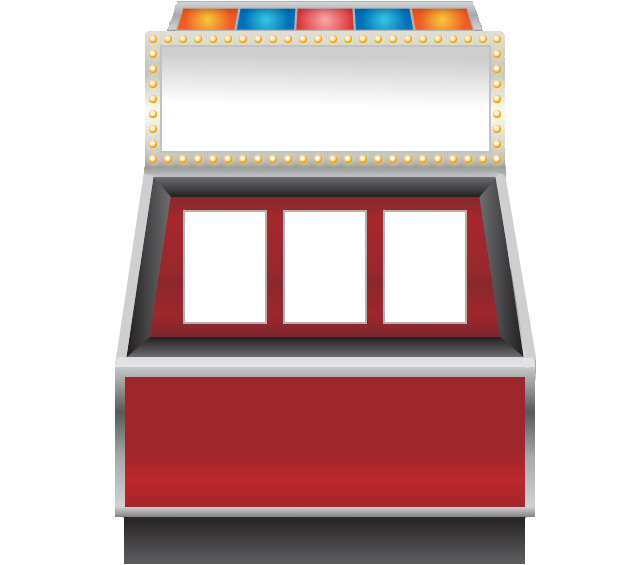
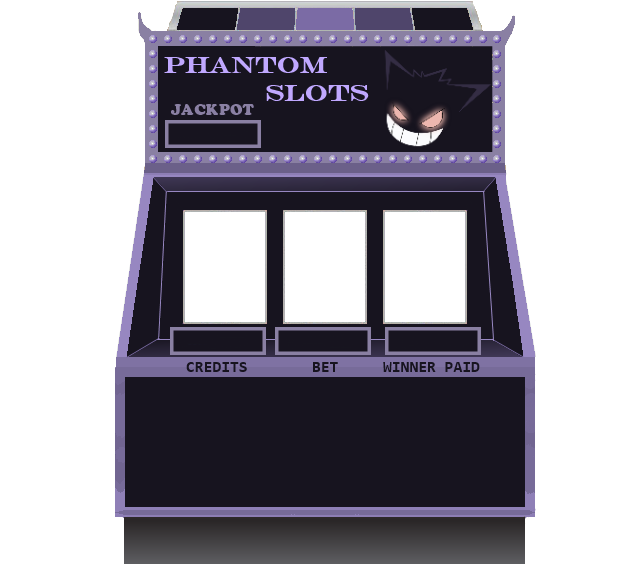
Changed Slot Machine Picture and Added Jackpot Label

diff --git a/Scripts/scenes/slotmachine.js b/Scripts/scenes/slotmachine.js
@@ -49,14 +49,11 @@ var scenes;
             this._spinButton = new objects.Button("SpinButton", 420, 400, false);
             this.addChild(this._spinButton);
             this._spinButton.on("click", this._spinButtonClick, this);
+            //Add Jackpot Text to the scene
+            this._jackpotText = new objects.Label("0", "bold 18px Consolas", "#8A80A3", 245, 122, false);
+            this.addChild(this._jackpotText);
             //Initialize the reels array of Bitmaps
-            this._reels = new Array();
-            for (var reel = 0; reel < 3; reel++) {
-                this._reels[reel] = new createjs.Bitmap(assets.getResult("Blank"));
-                this._reels[reel].x = 190 + (reel * 100);
-                this._reels[reel].y = 232;
-                this.addChild(this._reels[reel]);
-            }
+            this._initializeBitmapArray();
             // Setup Background
             this._setupBackground("WhiteBackground");
             // FadeIn
@@ -85,36 +82,46 @@ var scenes;
                         this._blanks++;
                         break;
                     case this._checkRange(outCome[spin], 28, 37):
-                        betLine[spin] = "Vensaur";
-                        this._grapes++;
+                        betLine[spin] = "Venasaur";
+                        this._venasaur++;
                         break;
                     case this._checkRange(outCome[spin], 38, 46):
                         betLine[spin] = "Charizard";
-                        this._bananas++;
+                        this._charizard++;
                         break;
                     case this._checkRange(outCome[spin], 47, 54):
                         betLine[spin] = "Blastoise";
-                        this._oranges++;
+                        this._blastoise++;
                         break;
                     case this._checkRange(outCome[spin], 55, 59):
                         betLine[spin] = "Meganium";
-                        this._cherries++;
+                        this._meganium++;
                         break;
                     case this._checkRange(outCome[spin], 60, 62):
                         betLine[spin] = "Typlosion";
-                        this._bars++;
+                        this._typlosion++;
                         break;
                     case this._checkRange(outCome[spin], 63, 64):
                         betLine[spin] = "Feraligatr";
-                        this._bells++;
+                        this._feraligatr++;
                         break;
                     case this._checkRange(outCome[spin], 65, 65):
                         betLine[spin] = "Gengar";
-                        this._sevens++;
+                        this._gengar++;
                         break;
                 }
             }
             return betLine;
+        };
+        //
+        SlotMachine.prototype._initializeBitmapArray = function () {
+            this._reels = new Array();
+            for (var reel = 0; reel < 3; reel++) {
+                this._reels[reel] = new createjs.Bitmap(assets.getResult("Blank"));
+                this._reels[reel].x = 190 + (reel * 100);
+                this._reels[reel].y = 232;
+                this.addChild(this._reels[reel]);
+            }
         };
         //EVENT HANDLERS ++++++++++++++++++++
         SlotMachine.prototype._bet1ButtonClick = function (event) {

diff --git a/Scripts/scenes/slotmachine.ts b/Scripts/scenes/slotmachine.ts
@@ -16,6 +16,11 @@ module scenes {
         private _bet100Button: objects.Button;
         private _spinButton: objects.Button;
         private _reels: createjs.Bitmap[];
+        private _jackpotText: objects.Label;
+        private _creditText: objects.Label;
+        private _betText: objects.Label;
+        private _paidText: objects.Label;
+
 
         private _venasaur = 0;
         private _charizard = 0;
@@ -57,17 +62,19 @@ module scenes {
             // add SpinButton to the scene
             this._spinButton = new objects.Button("SpinButton", 420, 400, false);
             this.addChild(this._spinButton);
-            this._spinButton.on("click", this._spinButtonClick, this);           
+            this._spinButton.on("click", this._spinButtonClick, this); 
+            
+            //Add Jackpot Text to the scene
+            this._jackpotText = new objects.Label(
+                "0",
+                "bold 18px Consolas",
+                "#8A80A3",
+                245, 122, false);
+            this.addChild(this._jackpotText);
             
             //Initialize the reels array of Bitmaps
-            this._reels = new Array<createjs.Bitmap>();
-            for (var reel: number = 0; reel < 3; reel++) {
-                this._reels[reel] = new createjs.Bitmap(assets.getResult("Blank"));
-                this._reels[reel].x = 190 + (reel * 100);
-                this._reels[reel].y = 232;
-                this.addChild(this._reels[reel]);
-            }
-        
+            this._initializeBitmapArray();          
+                   
             // Setup Background
             this._setupBackground("WhiteBackground");
            
@@ -133,6 +140,19 @@ module scenes {
                 }
             }
             return betLine;
+        }
+        
+        //
+        private _initializeBitmapArray(): void {
+
+            this._reels = new Array<createjs.Bitmap>();
+            for (var reel: number = 0; reel < 3; reel++) {
+                this._reels[reel] = new createjs.Bitmap(assets.getResult("Blank"));
+                this._reels[reel].x = 190 + (reel * 100);
+                this._reels[reel].y = 232;
+                this.addChild(this._reels[reel]);
+            }
+
         }
         
         //EVENT HANDLERS ++++++++++++++++++++

diff --git a/Scripts/objects/label.ts b/Scripts/objects/label.ts
@@ -2,10 +2,14 @@
     // LABEL CLASS ++++++++++++++++++++++++++++++++++++++++++++++
     export class Label extends createjs.Text {
         // CONSTRUCTOR METHOD +++++++++++++++++++++++++++++++++++
-        constructor(labelString: string, labelFont: string, labelColour: string, x: number, y: number) {
+        constructor(labelString: string, labelFont: string, labelColour: string, x: number, y: number, isCentered: boolean) {
             super(labelString, labelFont, labelColour);
-            this.regX = this.getBounds().width * 0.5;
-            this.regY = this.getBounds().height * 0.5;
+
+            if (isCentered) {
+                this.regX = this.getBounds().width * 0.5;
+                this.regY = this.getBounds().height * 0.5;
+            }
+
             this.x = x;
             this.y = y;
         }

diff --git a/Scripts/objects/label.js b/Scripts/objects/label.js
@@ -9,10 +9,12 @@ var objects;
     var Label = (function (_super) {
         __extends(Label, _super);
         // CONSTRUCTOR METHOD +++++++++++++++++++++++++++++++++++
-        function Label(labelString, labelFont, labelColour, x, y) {
+        function Label(labelString, labelFont, labelColour, x, y, isCentered) {
             _super.call(this, labelString, labelFont, labelColour);
-            this.regX = this.getBounds().width * 0.5;
-            this.regY = this.getBounds().height * 0.5;
+            if (isCentered) {
+                this.regX = this.getBounds().width * 0.5;
+                this.regY = this.getBounds().height * 0.5;
+            }
             this.x = x;
             this.y = y;
         }

diff --git a/Scripts/scenes/gameover.js b/Scripts/scenes/gameover.js
@@ -16,7 +16,7 @@ var scenes;
         // Start Method
         GameOver.prototype.start = function () {
             // add the WELCOME Label to the MENU scene
-            this._gameOverLabel = new objects.Label("GAME OVER", "60px Consolas", "#000000", config.Screen.CENTER_X, config.Screen.CENTER_Y);
+            this._gameOverLabel = new objects.Label("GAME OVER", "60px Consolas", "#000000", config.Screen.CENTER_X, config.Screen.CENTER_Y, true);
             this.addChild(this._gameOverLabel);
             // add the START button to the MENU scene
             this._startOverButton = new objects.Button("StartButton", config.Screen.CENTER_X, config.Screen.CENTER_Y + 80, true);

diff --git a/Scripts/scenes/menu.js b/Scripts/scenes/menu.js
@@ -16,7 +16,7 @@ var scenes;
         // Start Method
         Menu.prototype.start = function () {
             // add the WELCOME Label to the MENU scene
-            this._welcomeLabel = new objects.Label("SLOT MACHINE", "60px Consolas", "#000000", config.Screen.CENTER_X, config.Screen.CENTER_Y);
+            this._welcomeLabel = new objects.Label("SLOT MACHINE", "60px Consolas", "#000000", config.Screen.CENTER_X, config.Screen.CENTER_Y, true);
             this.addChild(this._welcomeLabel);
             // add the START button to the MENU scene
             this._startButton = new objects.Button("StartButton", config.Screen.CENTER_X, config.Screen.CENTER_Y + 80, true);

diff --git a/Scripts/scenes/gameover.ts b/Scripts/scenes/gameover.ts
@@ -21,7 +21,7 @@ module scenes {
                 "60px Consolas", 
                 "#000000", 
                 config.Screen.CENTER_X, 
-                config.Screen.CENTER_Y);
+                config.Screen.CENTER_Y, true);
             this.addChild(this._gameOverLabel);      
                    
             // add the START button to the MENU scene

diff --git a/Scripts/scenes/menu.ts b/Scripts/scenes/menu.ts
@@ -22,7 +22,7 @@ module scenes {
                 "60px Consolas",
                 "#000000",
                 config.Screen.CENTER_X,
-                config.Screen.CENTER_Y);
+                config.Screen.CENTER_Y, true);
             this.addChild(this._welcomeLabel);
                    
             // add the START button to the MENU scene
